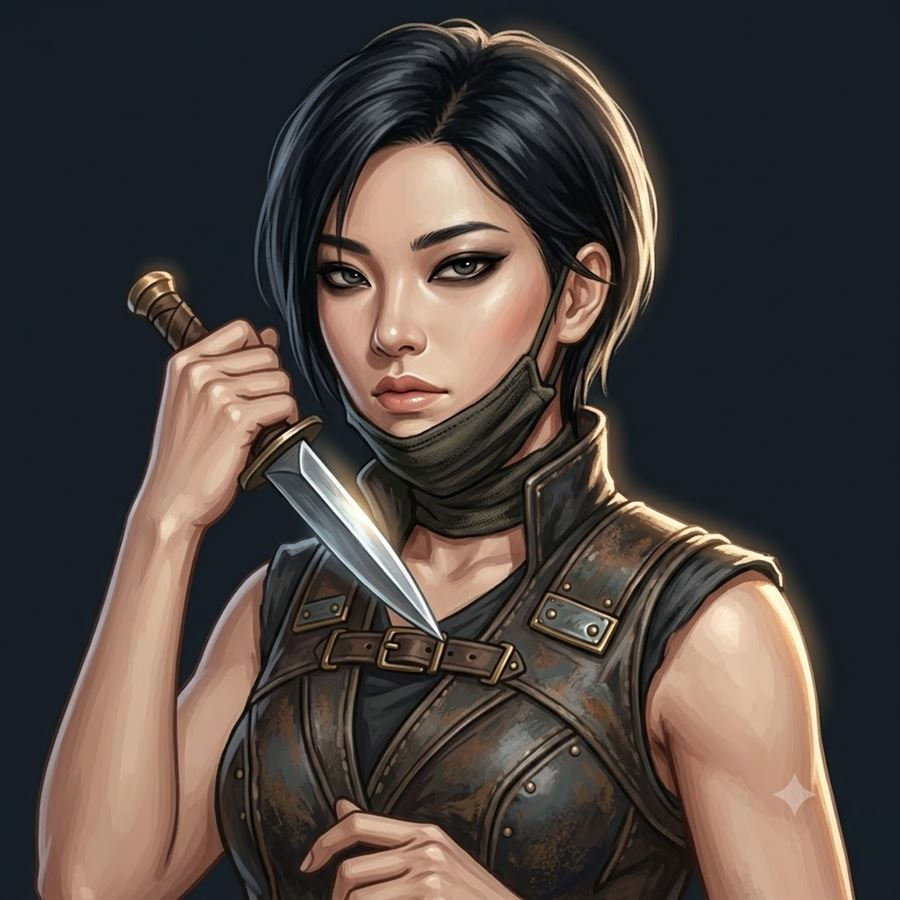
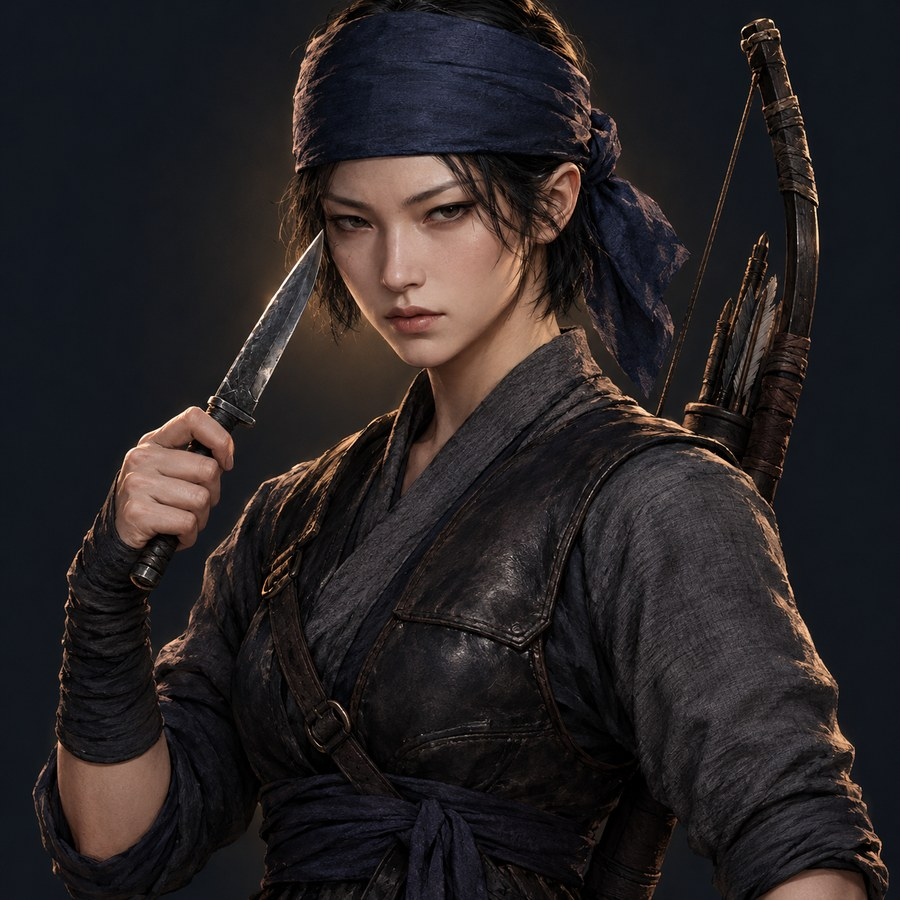
명치판 다시 — 소리(자객 · 두건·맥궁 · 얼굴 드러냄) · 한도 장부: retyper92 가 막힌 뒤에도 다섯 장 더 나왔다
Claude-Session: https://claude.ai/code/session_01EHNWQSnpqx2ZUW8bnuUbTB

diff --git a/docs/realm/ART-QUEUE.md b/docs/realm/ART-QUEUE.md
@@ -7,7 +7,7 @@
 | 계정 (화면에 뜨는 이름) | 풀리는 때 | 본 때 |
 |---|---|---|
 | YunCheol (edu · 'YunCheol Shin') | 10-29 AM 2:53 (문구 그대로) | 10-28 03:25 한도 문구 — 02:50 부터 스물다섯 장 (사건 그림 · 한 장은 거절: bow-forge) |
-| retyper92 (계정 고르기에 'YunCheol Shin · retyper92@gmail' 로 뜬다) | 10-29 PM 3:24 (문구 그대로) | 10-28 15:35 한도 문구 — 15:20 부터 네 장 (사건 expedition-return · goguryeo-hunt · golden-egg · iron-trade) |
+| retyper92 (계정 고르기에 'YunCheol Shin · retyper92@gmail' 로 뜬다) | 10-29 PM 3:24 (문구 그대로) | 10-28 22:50 한도 문구 다시 — 15:35 에 막혔는데 밤 22:25 부터 다섯 장이 더 나왔다(명치판 g-37·g-40·w-08·w-09·w-11) · 시각이 지나기 전이라도 한 번 넣어 볼 것 |
 | roqkfeke12 ('윤철 신') | 10-29 PM 6:45 (문구 그대로) | 10-28 19:20 한도 문구 — 18:40 부터 열 장 (사건 아홉 + 명치판 g-33 멧돌) |
 | retyper (hephaestosian · 'retyper') | 10-28 PM 10:17 (문구 그대로) | 10-28 02:47 한도 문구 — 10-27 22:16 부터 열 장 (명치판 아홉 + 사건 invade-raid) |
 
@@ -16,7 +16,7 @@
    10-28 새벽 스물여섯 장 바꿈(hephaestosian 하나 · edu 스물다섯): invade-raid · invade-siege · invade-field · take-town · captured-ours · capture · plot-assassin · plot-bribe · plot-burn · plot-rescue · plot-rumor · plot-sow · plot-spy · truce-pact · tribute-bow · court-hall · festival · flood · plague · dream · newborn · alliance-oath · defection · divination · egg-birth · eight-harbours
    10-28 오후 넷 더(retyper92): expedition-return · goguryeo-hunt · golden-egg · iron-trade
    ✔ 10-28 저녁 나머지 아홉(roqkfeke12): night-raid · outside-envoy · palisade-build · people-quarrel · salt-makers · sniped-commander · spy-rumor · yeonggo · bow-forge(다 만든 활을 건네는 장면으로 바꿔 통과) — **사건 그림 서른아홉 끝** (19b8e75)
-   ★ 명치판 주문서 = public/_tmp/busts27.json (head+id+tail · _queue 는 판에 쓰이는 열일곱 먼저 · _unused 열은 지금 판에 안 쓰이는 옛 그림) · 굽기 scratchpad bakeredo.py <id> <png> (같은 이름에 덮어씀 · 원본은 assets_src/realm/bust/<id>-gpt2.png) · ✔ g-33 멧돌 10-28
+   ★ 명치판 주문서 = public/_tmp/busts27.json (head+id+tail · _queue 는 판에 쓰이는 열일곱 먼저 · _unused 열은 지금 판에 안 쓰이는 옛 그림) · 굽기 scratchpad bakeredo.py <id> <png> (같은 이름에 덮어씀 · 원본은 assets_src/realm/bust/<id>-gpt2.png) · ✔ g-33 멧돌 10-28 · ✔ g-37 읍즙 · g-40 아단 · w-08 이슬 · w-09 단비 · w-11 소리 10-28 밤 (retyper92) — 다음은 w-12 나리부터
    ★10-28 명치판 — 형이 다시 그리라고 준 목록 (사건 그림 열셋 다음 · 한 사람마다 새 대화 · 민무늬 #1c2129 판): g-31-buyeo-geumha · g-33-jeoga-metdol · g-37-eumjeup-jeup · g-39-guya-soebo · g-40-anya-adan · g-72-gyeonji-soeul · l-L5-seonyeo · l-L6-jeonggyeon-moju · l-L8-nangnang-princess · l-L9-ungnyeo · l-L10-pyeonggang · w-07-shaman-queen · w-08-mahan-warrior · w-09-byeonhan-smith · w-11-assassin · w-12-court-dancer · w-14-feast-spy · w-16-clan-matriarch · w-47-gosaburi-baram · w-48-mujin-mudeung · w-49-goryong-gureum · w-51-haseulla-dangung · w-52-biryuna-songbi · w-53-hwanna-gabi · w-55-guga-nuri · w-56-dongokjeo-sogeum · w-79-yangmaek-solmae
    그다음(형: "퀄리티 떨어져 보이는 것 계속 수정"): 세로 화면 event-v(태몽·탄생) · 제미나이로 받은 여인 명치판 w-29~45·w-79·w-80 · 계절 띠 넷 · 싸움터 배경 battle-field
 
